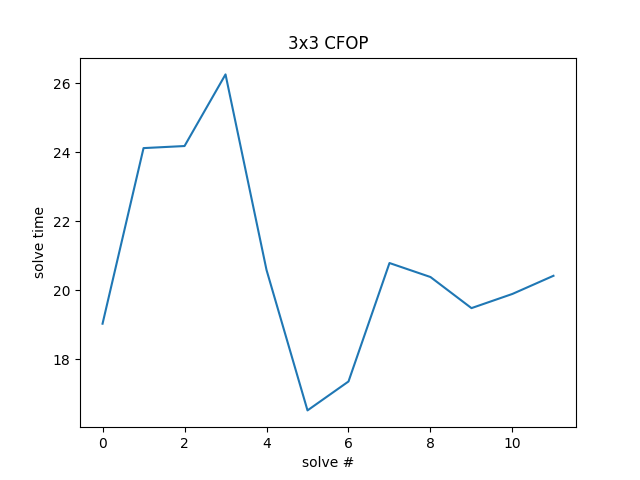
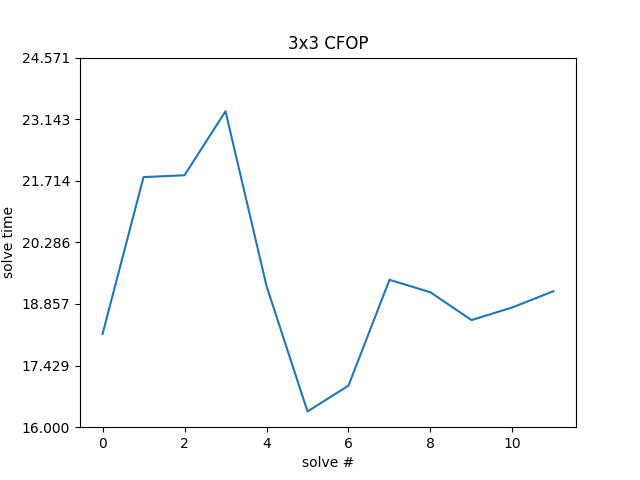
change graphs to show duration on left, solves #18

diff --git a/scramble_history/__main__.py b/scramble_history/__main__.py
@@ -475,6 +475,14 @@ def merge(
                         if solve.state == State.SOLVED
                     )
                 )
+                ft = pd_input["full_time"]
+                assert ft is not None
+                pd_input["full_time_formatted"] = ft.apply(format_decimal)
+
+                minval: Decimal = pd_input["full_time"].min()  # type: ignore
+                maxval: Decimal = pd_input["full_time"].max()  # type: ignore
+
+                # convert y-axis to duration
 
                 filename = re.sub(
                     r"[\?:\s\/\\]",
@@ -490,6 +498,18 @@ def merge(
                 )
                 plt.xlabel("solve date" if "date-axis" in graph_opt else "solve #")
                 plt.ylabel("solve time")
+                imin = int(minval)
+                imax = int(maxval)
+                ticks, labels = plt.yticks()
+                # choose numbers in between the min/max, scaled by the current position
+                labels = [
+                    format_decimal(
+                        Decimal(imin + ((imax - imin) * (mult / len(labels))))
+                    )
+                    for mult in range(len(labels))
+                ]
+                plt.yticks(ticks=ticks, labels=labels)
+
                 textbox_props = dict(boxstyle="round", facecolor="lightblue", alpha=0.5)
                 if "annotate" in graph_opt:
                     plt.annotate(

diff --git a/README.md b/README.md
@@ -248,7 +248,7 @@ Can also be used in combination with `--query drop:` and `--query limit:` to onl
 
 Can provide the `annotate` options if you want to add some of the text onto the graph:
 
-`scramble_history merge -q 'event_description==4x4' -q 'last:5' -G --no-reverse --graph-opt annotate --graph-opt annotate-average`
+`scramble_history merge -q 'event_description==4x4' -q 'last:5' -G --graph-opt annotate --graph-opt annotate-average`
 
 <img src="https://github.com/seanbreckenridge/scramble-history/blob/master/.github/annotated.png?raw=true" height=300>
 
